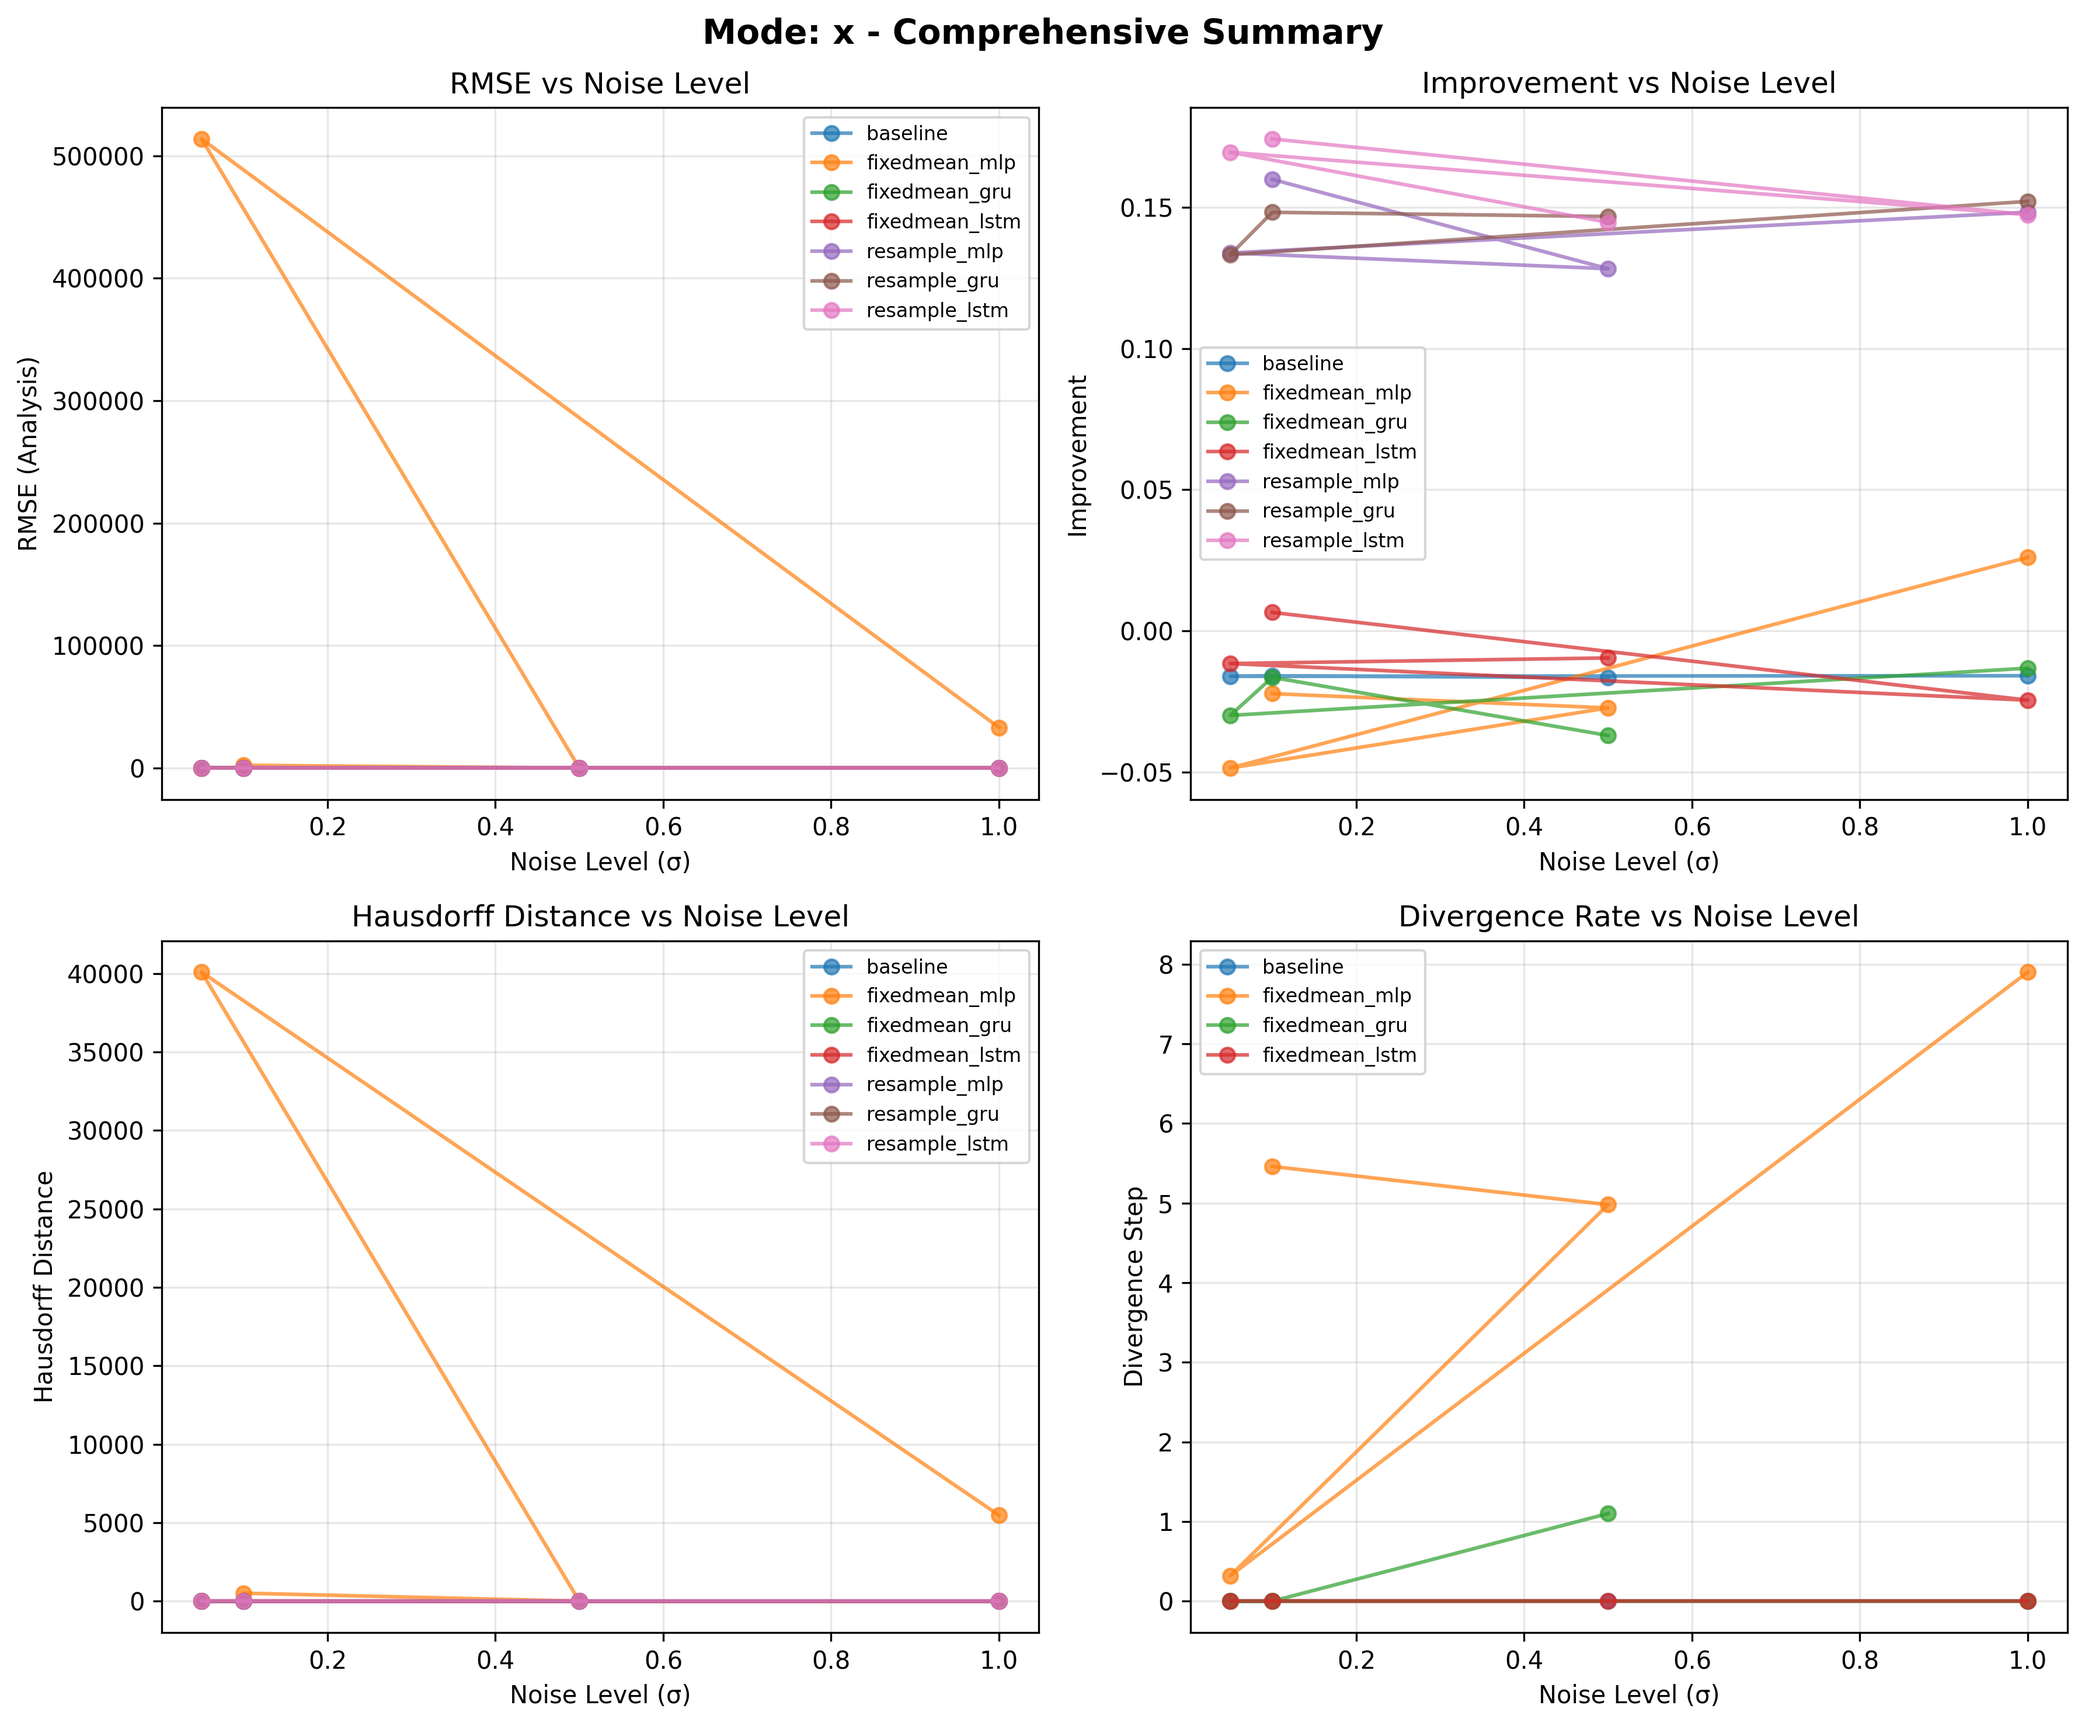
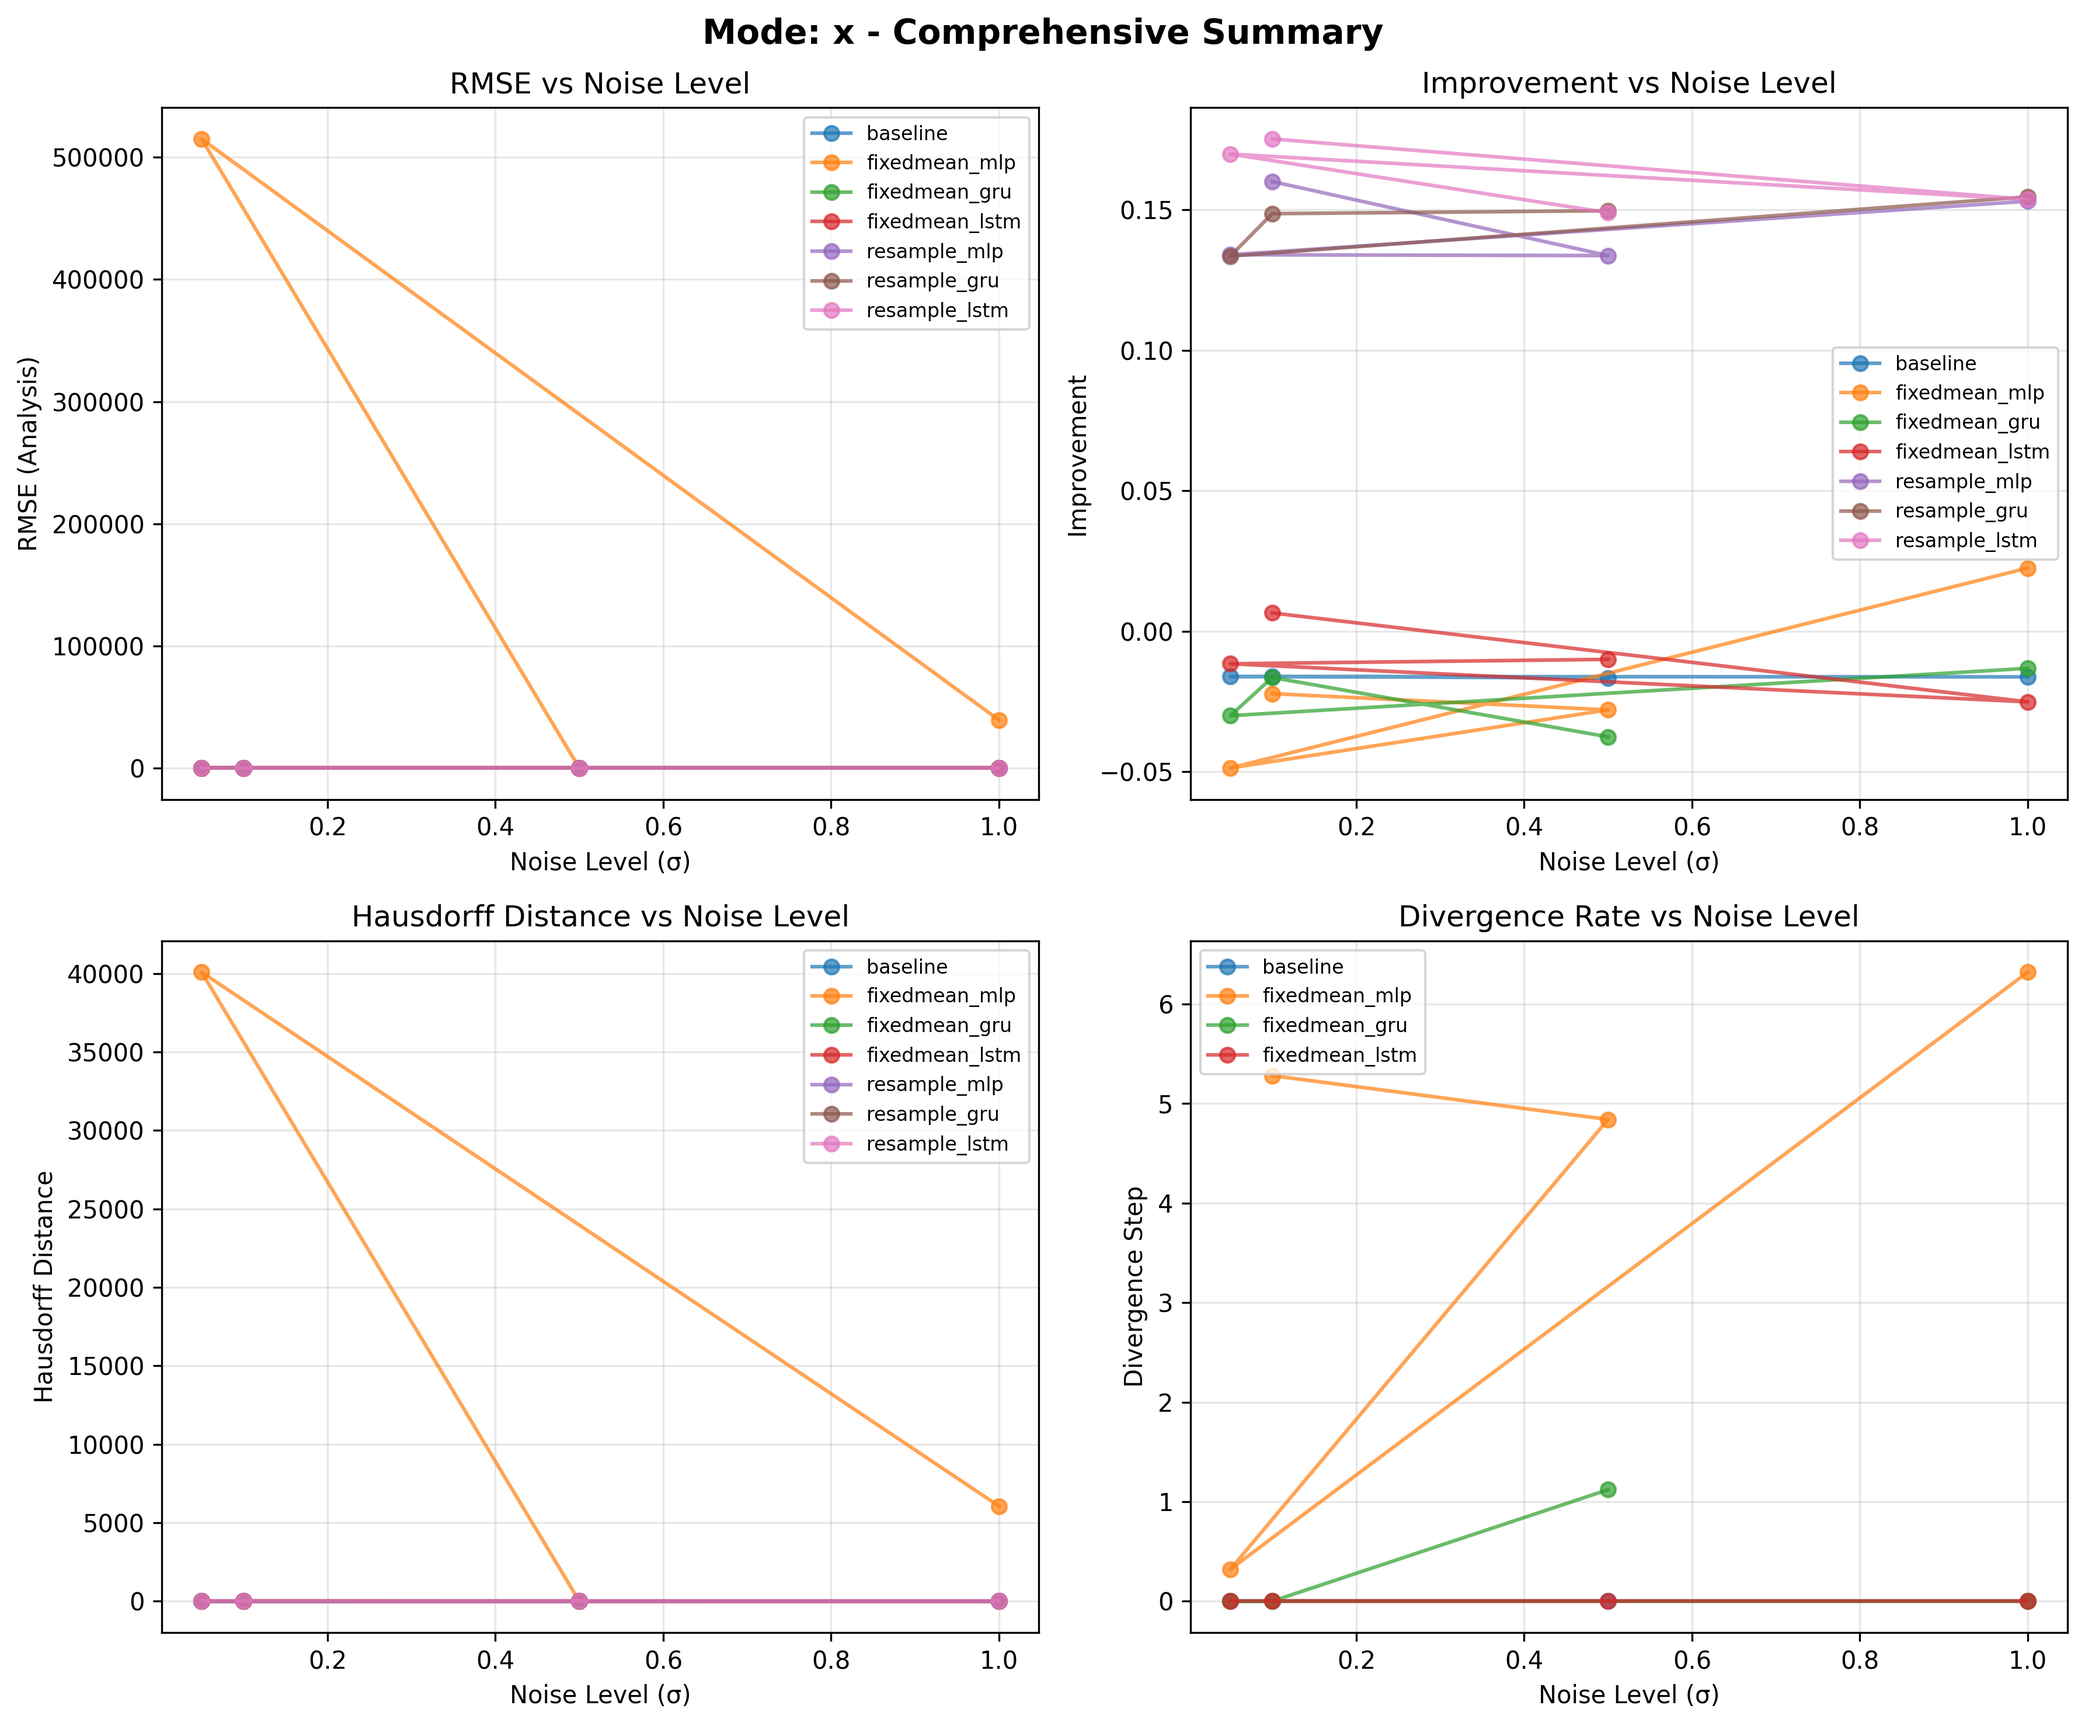
Final improvements: fix regex patterns, use constants consistently, set seed at module level

diff --git a/scripts/generate_section4_metrics_and_plots.py b/scripts/generate_section4_metrics_and_plots.py
@@ -28,6 +28,9 @@ DIVERGENCE_THRESHOLD = 10.0  # RMSE threshold for trajectory divergence
 LORENZ_ATTRACTOR_RANGE = 50.0  # Typical coordinate range for normalization
 RANDOM_SEED = 42  # For reproducibility
 
+# Set random seed for reproducibility
+np.random.seed(RANDOM_SEED)
+
 # Set up project paths
 PROJECT_ROOT = os.path.abspath(os.path.join(os.path.dirname(__file__), os.pardir))
 if PROJECT_ROOT not in sys.path:
@@ -39,8 +42,8 @@ from src.utils.lorenz import lorenz63_step
 # Global configurations
 SEQ_LEN = 5
 DT = 0.01
-STEPS = 200
-N_TEST = 500  # Use all test trajectories
+STEPS = 50  # Number of steps to evaluate
+N_TEST = 50  # Number of test trajectories to use for evaluation
 
 # Directory paths (handle spaces in directory names)
 DATA_DIR = os.path.join(PROJECT_ROOT, "data ")
@@ -90,7 +93,6 @@ def make_noisy_observations(traj, mode, sigma):
     Returns:
         obs: [steps, obs_dim]
     """
-    np.random.seed(RANDOM_SEED)  # For reproducibility
     obs = np.array([obs_operator(x, mode) for x in traj])
     obs_noisy = obs + np.random.normal(0, sigma, obs.shape)
     return obs_noisy
@@ -329,7 +331,7 @@ def find_all_models():
         for fpath in glob.glob(os.path.join(RESAMPLE_DIR, "*.pth")):
             fname = os.path.basename(fpath)
             # Pattern: {mode}_{arch}_n{sigma}_R{R}.pth
-            m = re.match(r"([a-z0-9]+)_([a-z]+)_n([0-9.]+)_R([0-9.]+)\.pth", fname)
+            m = re.match(r"([a-z0-9]+)_([a-z]+)_n([0-9]+(?:\.[0-9]+)?)_R([0-9]+(?:\.[0-9]+)?)\.pth", fname)
             if m:
                 mode, arch, sigma_str, R_str = m.groups()
                 models.append({
@@ -346,7 +348,7 @@ def find_all_models():
         for fpath in glob.glob(os.path.join(FIXEDMEAN_DIR, "*.pth")):
             fname = os.path.basename(fpath)
             # Pattern: {mode}_{arch}_n{sigma}_R{R}.pth
-            m = re.match(r"([a-z0-9]+)_([a-z]+)_n([0-9.]+)_R([0-9.]+)\.pth", fname)
+            m = re.match(r"([a-z0-9]+)_([a-z]+)_n([0-9]+(?:\.[0-9]+)?)_R([0-9]+(?:\.[0-9]+)?)\.pth", fname)
             if m:
                 mode, arch, sigma_str, R_str = m.groups()
                 models.append({
@@ -363,7 +365,7 @@ def find_all_models():
         for fpath in glob.glob(os.path.join(BASELINE_DIR, "*.pth")):
             fname = os.path.basename(fpath)
             # Pattern: {mode}_n{sigma}.pth
-            m = re.match(r"([a-z0-9]+)_n([0-9.]+)\.pth", fname)
+            m = re.match(r"([a-z0-9]+)_n([0-9]+(?:\.[0-9]+)?)\.pth", fname)
             if m:
                 mode, sigma_str = m.groups()
                 models.append({
@@ -593,8 +595,8 @@ def main():
                 model_info['sigma'],
                 test_traj,
                 B_mean,
-                n_test=50,  # Use 50 test trajectories for speed
-                steps=50,   # Evaluate first 50 steps
+                n_test=N_TEST,  # Use constant
+                steps=STEPS,    # Use constant
                 device=device
             )
             
